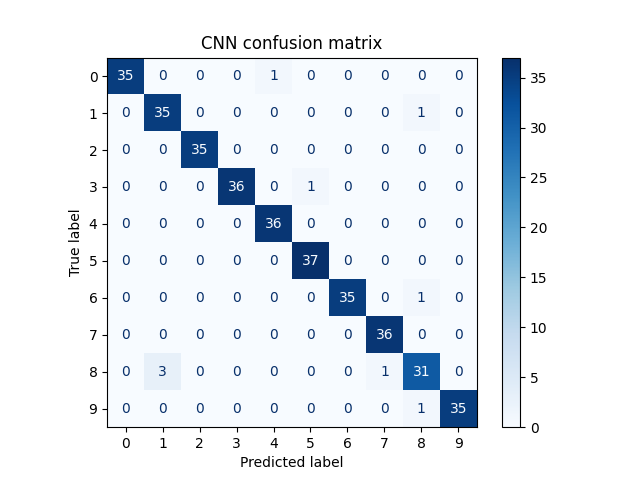
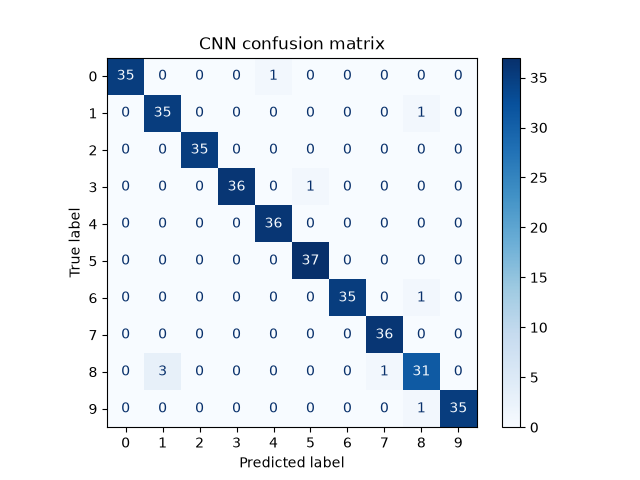
Save charts without pop-up windows

diff --git a/05_svm.py b/05_svm.py
@@ -60,7 +60,7 @@ print("Number of incorrect predictions:", (Y_test != Y_pred_best).sum())
 ConfusionMatrixDisplay.from_predictions(Y_test, Y_pred_best, cmap = "Blues")
 plt.title("SVM confusion matrix")
 plt.savefig("figures/svm_confusion_matrix.png")
-plt.show()
+plt.close()  # save the chart without opening a window
 
 # Step ten: showing the images the SVM got wrong
 wrong = (Y_test != Y_pred_best).nonzero()[0]  # positions of the wrong predictions
@@ -72,4 +72,4 @@ for i, index in enumerate(wrong):
     plt.title(f"True: {Y_test[index]}\nPred: {Y_pred_best[index]}")
     plt.axis("off")
 plt.savefig("figures/svm_misclassified.png")
-plt.show()
+plt.close()  # save the chart without opening a window
